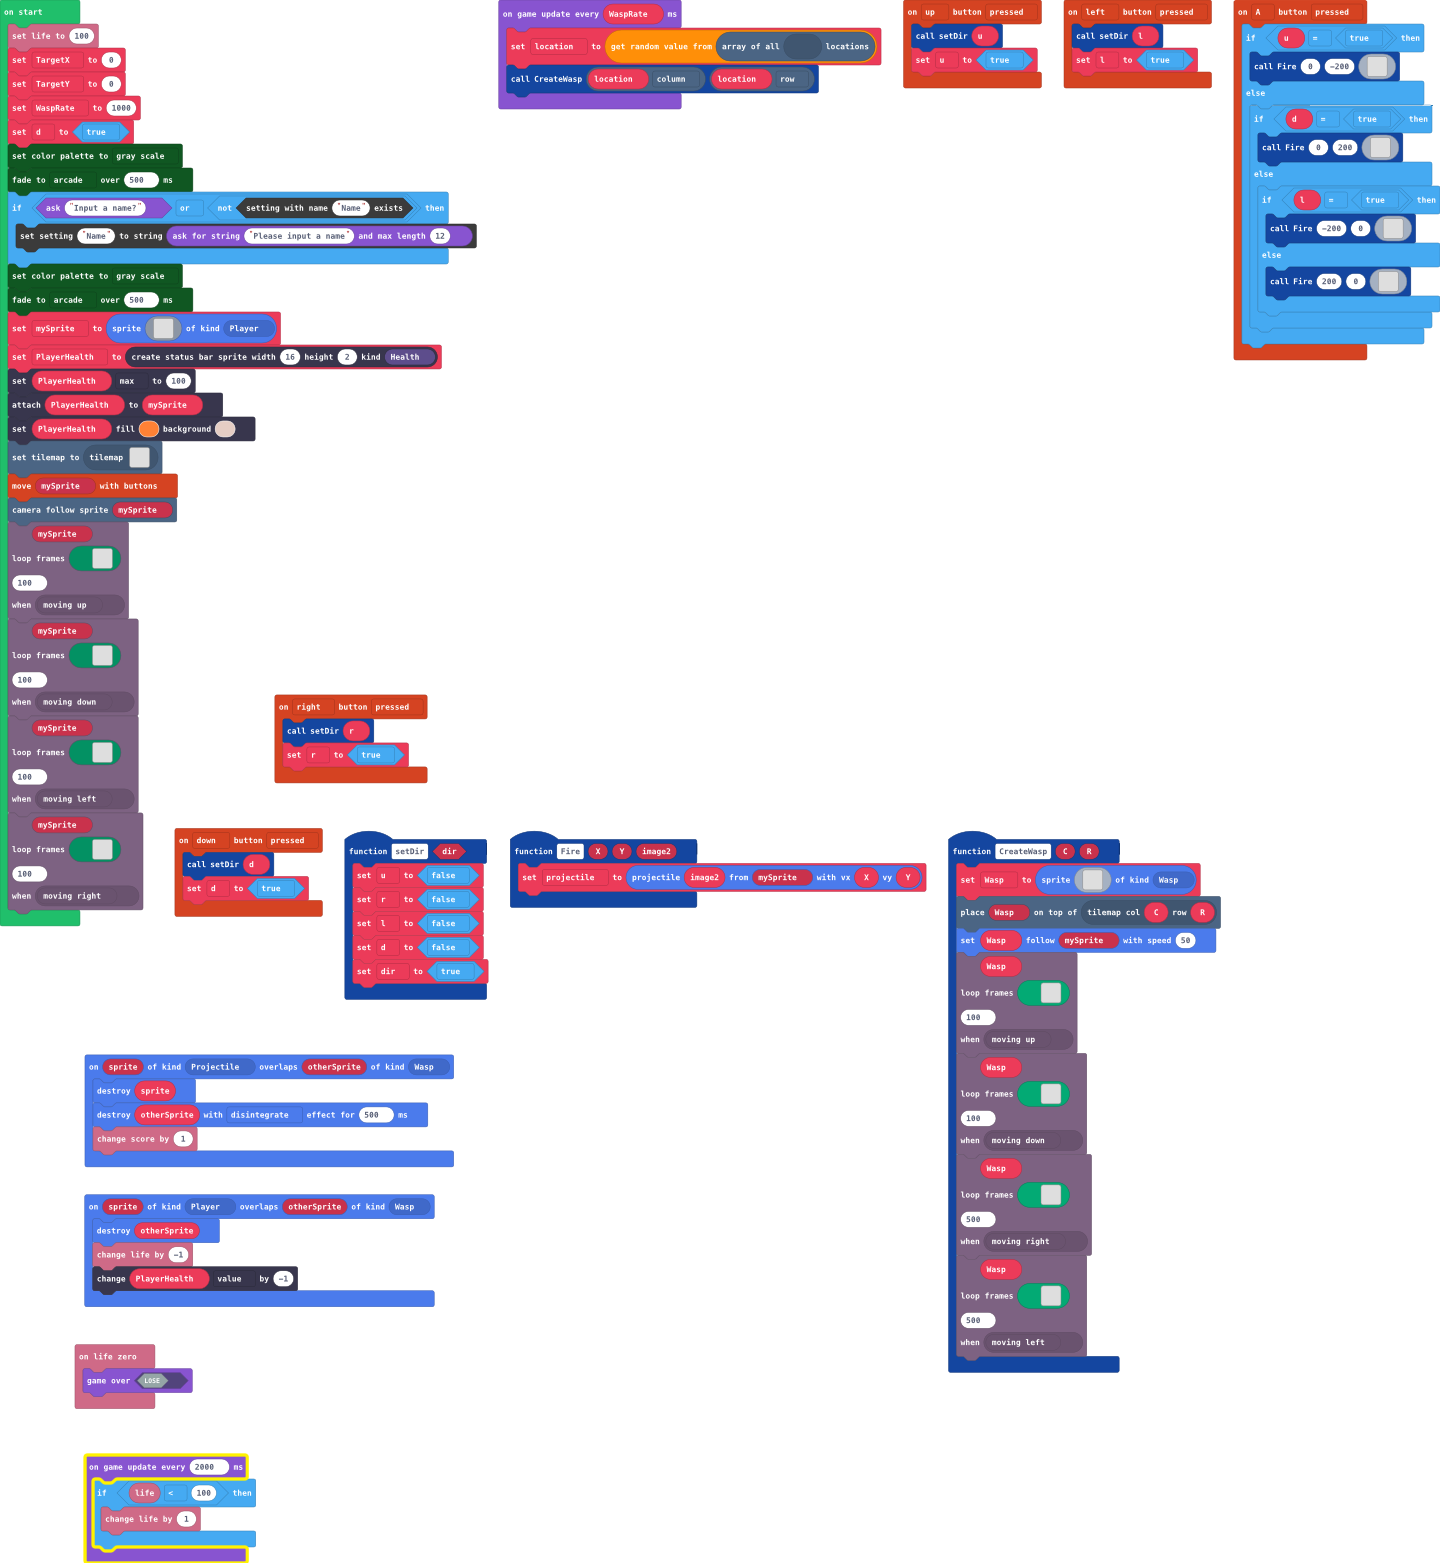
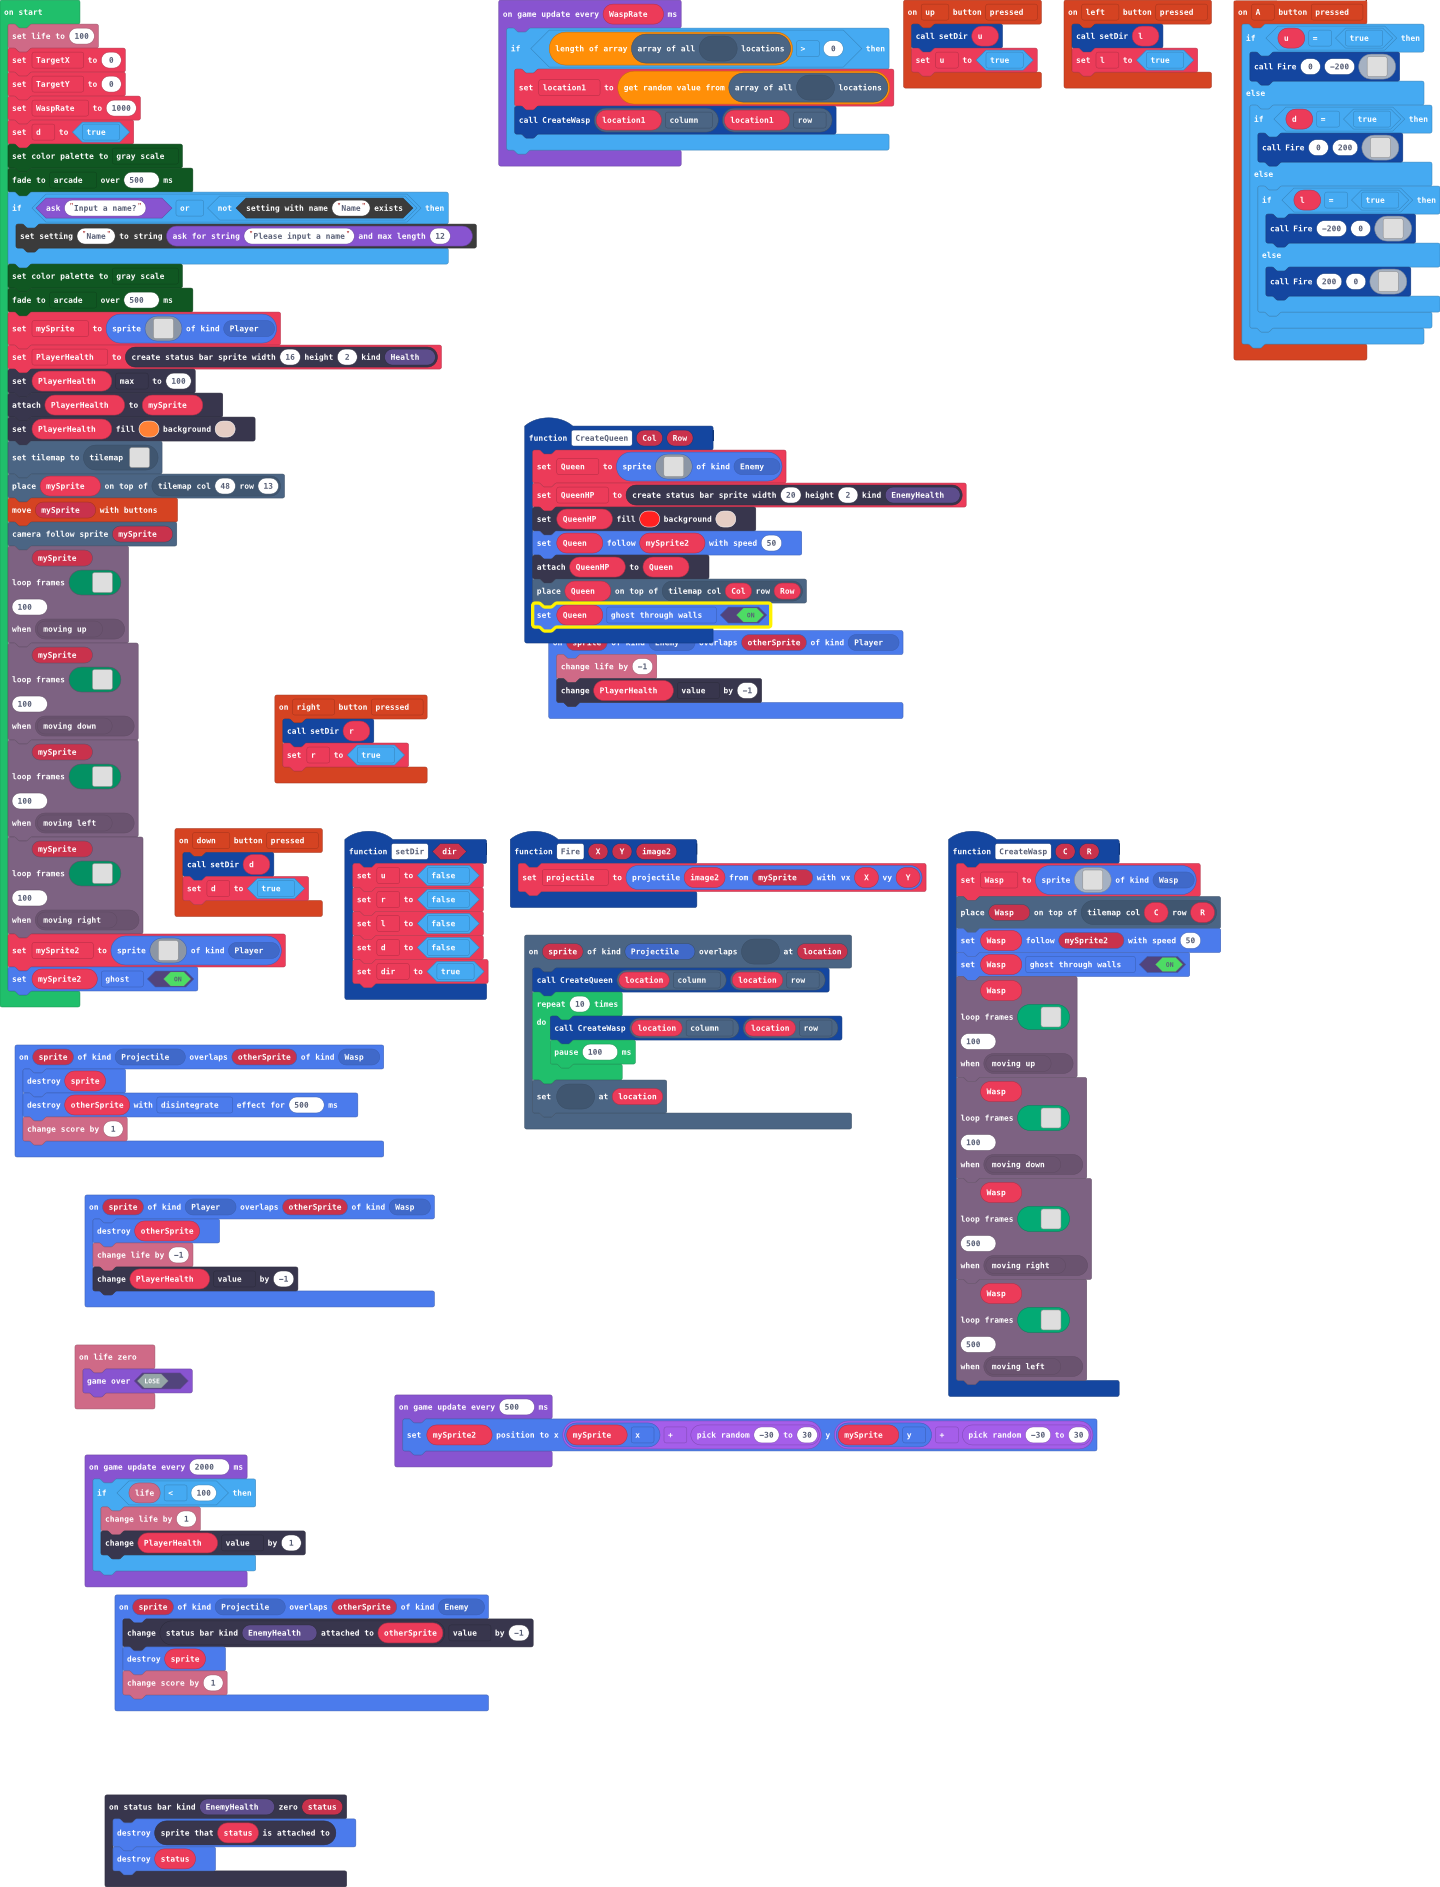
Update main.blocks, main.ts, tilemap.g.jres, tilemap.g.ts

diff --git a/tilemap.g.ts b/tilemap.g.ts
@@ -6,6 +6,12 @@ namespace myTiles {
     export const tile1 = image.ofBuffer(hex``);
     //% fixedInstance jres blockIdentity=images._tile
     export const tile2 = image.ofBuffer(hex``);
+    //% fixedInstance jres blockIdentity=images._tile
+    export const tile3 = image.ofBuffer(hex``);
+    //% fixedInstance jres blockIdentity=images._tile
+    export const tile4 = image.ofBuffer(hex``);
+    //% fixedInstance jres blockIdentity=images._tile
+    export const tile5 = image.ofBuffer(hex``);
 
     helpers._registerFactory("tilemap", function(name: string) {
         switch(helpers.stringTrim(name)) {
@@ -29,58 +35,33 @@ namespace myTiles {
 . . . . . . . . . . . . . . . . 
 `, [myTiles.transparency16], TileScale.Sixteen);
             case "Enter":
-            case "level1":return tiles.createTilemap(hex`3200320001010101010101010101010101010101010101010101010101010101010101010101010101010101010101010101010101010101010101010101010101010101010101010101010101010101010101010101010101010101010101010101010101010101010101010101010101010101010101010101010101010101010101010101010101010101010101010101010101010101010101010101010101010101010101010101010101010101010101010101010101010101010101010101010101010101010101010101010101010101010101010101010101010101010101010101010101010101010101010101010101010101010101010101010101010101010101010101010101010101010101010101010101010101010101010101010101010101010101010101010101010101010101010101010101010101010101010101010101010101010101010101010101010101010101010101010101010101010101010101010101010101010101010101010101010101010101010101010101010101010101010101010101010101010101010101010101010101010101010101010101010101010101010101010101010101010101010101010101010101010101010101010101010101010101010101010101010101010101010101010101010101010101010101010201010101010101010101010101010101010101010101010101010101010101010101010101010101010101010101010101010101010101010101010101010101010101010101010101010101010101010101010101010101010101010101010101010101010101010101010101010101010101010101010101010101010101010101010101010101010101010101010101010101010101010101010101010101010101010101010101010101010101010101010101010101010101010101010101010101010101010101010101010101010101010101010101010101010101010101010101010101010101010101010101010101010101010101010101010101010101010101010101010101010101010101010101010101010101010101010101010101010101010101010101010101010101010101010101010101010101010101010101010101010101010101010101010101010101010101010101010101010101010101010101010101010101010101010101010101010101010101010101010101010101010101010101010101010101010101010101010101010101010101010101010101010101010101010101010101010101010101010101010101010101010101010101010101010101010101010101010101010101010101010101010101010101010101010101010101010101010101010101010101010101010101010101010101010101010101010101010101010101010101010101010101010101010101010101010101010101010101010101010101010101010101010101010101010101010101010101010101010101010101010101010101010101010101010101010101010101010101010101010101010101010101010101010101010101010101010101010101010101010101010101010101010101010101010101010101010101010101010101010101010101010101010101010101010101010101010101010101010101010101010101010101010101010101010101010101010101010101010101010101010101010101010101010101010101010101010101010101010101010101010101010101010101010101010101010101010101010101020101010101010101010101010101010101010101010101010101010101010101010101010101010101010101010101010101010101010101010101010101010101010101010101010101010101010101010101010101010101010101010101010101010101010101010101010101010101010101010101010101010101010101010101010101010101010101010101010101010101010101010101010101010101010101010101010101010101010101010101010101010101010101010101010101010101010101010101010101010101010101010101010101010101010101010101010101010101010101010101010101010101010101010101010101010101010101010101010101010101010101010101010101010101010101010101010101010101010101010101010101010101010101010101010101010101010101010101010101010101010101010101010101010101010101010101010101010101010101010101010101010101010101010101010101010101010101010101010101010101010101010101010101010101010101010101010101010101010101010101010101010101010101010101010101010101010101010101010101010101010101010101010101010101010101010101010101010101010101010101010101010101010101010101010101010101010101010101010101010101010101010101010101010101010101010101010101010101010101010101010101010101010101010101010101010101010101010101010101010101010101010101010101010101010101010101010101010101010101010101010101010101010101010101010101010101010101010101010101010101010101010101010101010101010101010101010101010101010101010101010101010101010101010101010101010101010101010101010101010101010101010101010101010101010101010101010101010101010101010101010102010101010101010101010101010101010101010101010101010101010101010101010101010101010101010101010101010101010101010101010101010101010101010101010101010101010101010101010101010101010101010101010101010101010101010101010101010101010101010101010101010101010101010101010101010101010101010101010101010101010101010101010101010101010101010101010101010101010101010101010101010101010101010101010101010101010101010101010101010101010101010101010101010101010101010101010101010101010101010101010101010101010101010101010101010101010101010101010101010101010101010101010101010101010101010101010101010101010101010101010101010101010101010101010101010101010101010101010101010101010101010101010101010101010101010101010101010101010101010101010101010101010101010101010101010101010101010101010101010101010101010101010101010101010101010101010101010101010101010101010101010101010101010101010101010101010101010101010101010101010101010101010101010101010101010101010101010101010101010101010101010101`, img`
+            case "level1":return tiles.createTilemap(hex`320019000101010101010101010101010101010101010505050505050505050505050501010101010101010101010101010101010101010101010101010101010101010101010101050505050505050505050505050101010101010101010101010101010101010101010101010101010101010101010101010105050505050505050505050505010101010101010101010101010101010101010101010101010101010101010101010101010505050505050505050505050501010101010101010101010101010101010101010101010101010101010101010101010101050505050505050505050505050101010101010101010101010101010101010101010101010101010101010101010101010105050505050505050505050501010101010101010101010101010101010101010101010101010101010101010101010101010505050505050505050505050101010101010101010101010101010101010101010101010101010101010101010101010101050505050505050505050505010101010101010101010101010101010101010101010101010101010101010101010101010101050505050505050505050501010101010101010101010301010101010101010101010101010101010101010101010101010105050505050505050505050501010101010101010101030101010101010101010101010101010101010101010101010104040404040404040404040404040404010101010101010103010101010101010102010101010101010101010101010101010404040404040404040404040404040401010101010101030101010101010101010101010101010101010101010101010101010505050505050505050505050505010101010101010103010101010101010101010101010101010101010101010101010105050505050505050505050505050501010101010101010301010101010101010101010101010101010101010101010101010505050505050505050505050505050101010101010101010101010101010101010101010101010101010101010101010104040404040404040404040404040404040401010101010101010101010101010101010101010101010101010101010101010404040404040404040404040404040404040101010101010101010101010101010101010101010101010101010101010101010105050505050505050505050505050101010101010101010101010101010101010101010101010101010101010101010101010505050505050505050505050505010101010101010101010101010101010101010101010101010101010101010101010101010505050505050505050505050501010101010101010101010101010101010101010101010101010101010101010101010101050505050505050505050505050501010101010101010101010101010101010101010101010101010101010101010101010105050505050505050505050505050101010101010101010101010101010101010103010101010101010101010101010101010505050505050505050505050505010101010101010101010101010101010101010101010101010101010101010101010101050505050505050505050505050501010101010101010101010101010101010101010101010101010101010101010101010105050505050505050505050505050101010101010101010101010101010101`, img`
+..................2222222222222...................
+..................2222222222222...................
+..................2222222222222...................
+..................2222222222222...................
+..................2222222222222...................
+..................222222222222....................
+..................222222222222....................
+..................222222222222....................
+...................22222222222....................
+...................222222222222...................
 ..................................................
 ..................................................
+..................22222222222222..................
+.................222222222222222..................
+.................222222222222222..................
 ..................................................
 ..................................................
-..................................................
-..................................................
-..................................................
-..................................................
-..................................................
-..................................................
-..................................................
-..................................................
-..................................................
-..................................................
-..................................................
-..................................................
-..................................................
-..................................................
-..................................................
-..................................................
-..................................................
-..................................................
-..................................................
-..................................................
-..................................................
-..................................................
-..................................................
-..................................................
-..................................................
-..................................................
-..................................................
-..................................................
-..................................................
-..................................................
-..................................................
-..................................................
-..................................................
-..................................................
-..................................................
-..................................................
-..................................................
-..................................................
-..................................................
-..................................................
-..................................................
-..................................................
-..................................................
-..................................................
-..................................................
-..................................................
-`, [myTiles.transparency16,sprites.castle.tileDarkGrass1,myTiles.tile2], TileScale.Sixteen);
+..................22222222222222..................
+..................22222222222222..................
+...................2222222222222..................
+...................22222222222222.................
+...................22222222222222.................
+...................22222222222222.................
+...................22222222222222.................
+...................22222222222222.................
+`, [myTiles.transparency16,sprites.castle.tileDarkGrass1,myTiles.tile2,myTiles.tile3,myTiles.tile4,myTiles.tile5], TileScale.Sixteen);
         }
         return null;
     })
@@ -92,6 +73,12 @@ namespace myTiles {
             case "tile1":return tile1;
             case "myTile0":
             case "tile2":return tile2;
+            case "myTile1":
+            case "tile3":return tile3;
+            case "myTile2":
+            case "tile4":return tile4;
+            case "myTile3":
+            case "tile5":return tile5;
         }
         return null;
     })

diff --git a/main.ts b/main.ts
@@ -1,10 +1,41 @@
 namespace SpriteKind {
     export const Wasp = SpriteKind.create()
 }
+function CreateQueen (Col: number, Row: number) {
+    Queen = sprites.create(img`
+        ....ff.........ff...
+        .....f........ff....
+        .....ffffffffff.....
+        ...fffffffffffff....
+        ...fff1ffffff1ff....
+        ....fffffffffff.....
+        ....ffffffffff......
+        .....55555555.......
+        .1111ffffffff111111.
+        11111555555551111111
+        .11111fffffff111111.
+        ......5555555.......
+        ......ffffffff......
+        .......5555555......
+        .......fffffff......
+        ........555555......
+        .........ffffff.....
+        ..........55555.....
+        ............ffff....
+        ................ff..
+        `, SpriteKind.Enemy)
+    QueenHP = statusbars.create(20, 2, StatusBarKind.EnemyHealth)
+    QueenHP.setColor(2, 13)
+    Queen.follow(mySprite2, 50)
+    QueenHP.attachToSprite(Queen)
+    tiles.placeOnTile(Queen, tiles.getTileLocation(Col, Row))
+    Queen.setFlag(SpriteFlag.GhostThroughWalls, true)
+}
 function CreateWasp (C: number, R: number) {
     Wasp = sprites.create(assets.image`Wasp`, SpriteKind.Wasp)
     tiles.placeOnTile(Wasp, tiles.getTileLocation(C, R))
-    Wasp.follow(mySprite, 50)
+    Wasp.follow(mySprite2, 50)
+    Wasp.setFlag(SpriteFlag.GhostThroughWalls, true)
     characterAnimations.loopFrames(
     Wasp,
     assets.animation`Flying up or down`,
@@ -60,9 +91,25 @@ controller.left.onEvent(ControllerButtonEvent.Pressed, function () {
     setDir(l)
     l = true
 })
+statusbars.onZero(StatusBarKind.EnemyHealth, function (status) {
+    sprites.destroy(status.spriteAttachedTo())
+    sprites.destroy(status)
+})
 controller.right.onEvent(ControllerButtonEvent.Pressed, function () {
     setDir(r)
     r = true
+})
+scene.onOverlapTile(SpriteKind.Projectile, assets.tile`myTile0`, function (sprite, location) {
+    CreateQueen(location.column, location.row)
+    for (let index = 0; index < 10; index++) {
+        CreateWasp(location.column, location.row)
+        pause(100)
+    }
+    tiles.setTileAt(location, assets.tile`myTile1`)
+})
+sprites.onOverlap(SpriteKind.Enemy, SpriteKind.Player, function (sprite, otherSprite) {
+    info.changeLifeBy(-1)
+    PlayerHealth.value += -1
 })
 function Fire (X: number, Y: number, image2: Image) {
     projectile = sprites.createProjectileFromSprite(image2, mySprite, X, Y)
@@ -79,18 +126,26 @@ sprites.onOverlap(SpriteKind.Projectile, SpriteKind.Wasp, function (sprite, othe
     sprites.destroy(otherSprite, effects.disintegrate, 500)
     info.changeScoreBy(1)
 })
+sprites.onOverlap(SpriteKind.Projectile, SpriteKind.Enemy, function (sprite, otherSprite) {
+    statusbars.getStatusBarAttachedTo(StatusBarKind.EnemyHealth, otherSprite).value += -1
+    sprites.destroy(sprite)
+    info.changeScoreBy(1)
+})
 sprites.onOverlap(SpriteKind.Player, SpriteKind.Wasp, function (sprite, otherSprite) {
     sprites.destroy(otherSprite)
     info.changeLifeBy(-1)
     PlayerHealth.value += -1
 })
-let location: tiles.Location = null
+let location1: tiles.Location = null
 let projectile: Sprite = null
 let dir = false
 let l = false
 let r = false
 let u = false
 let Wasp: Sprite = null
+let QueenHP: StatusBarSprite = null
+let Queen: Sprite = null
+let mySprite2: Sprite = null
 let PlayerHealth: StatusBarSprite = null
 let mySprite: Sprite = null
 let d = false
@@ -116,6 +171,7 @@ PlayerHealth.max = 100
 PlayerHealth.attachToSprite(mySprite)
 PlayerHealth.setColor(4, 13)
 tiles.setCurrentTilemap(tilemap`Enter`)
+tiles.placeOnTile(mySprite, tiles.getTileLocation(48, 13))
 controller.moveSprite(mySprite)
 scene.cameraFollowSprite(mySprite)
 characterAnimations.loopFrames(
@@ -142,12 +198,37 @@ assets.animation`Right`,
 100,
 characterAnimations.rule(Predicate.MovingRight)
 )
+mySprite2 = sprites.create(img`
+    . . . . . . . . . . . . . . . . 
+    . . . . . . . . . . . . . . . . 
+    . . . . . . . . . . . . . . . . 
+    . . . . . . . . . . . . . . . . 
+    . . . . . . . . . . . . . . . . 
+    . . . . . . . . . . . . . . . . 
+    . . . . . . . . . . . . . . . . 
+    . . . . . . . . . . . . . . . . 
+    . . . . . . . . . . . . . . . . 
+    . . . . . . . . . . . . . . . . 
+    . . . . . . . . . . . . . . . . 
+    . . . . . . . . . . . . . . . . 
+    . . . . . . . . . . . . . . . . 
+    . . . . . . . . . . . . . . . . 
+    . . . . . . . . . . . . . . . . 
+    . . . . . . . . . . . . . . . . 
+    `, SpriteKind.Player)
+mySprite2.setFlag(SpriteFlag.Ghost, true)
 game.onUpdateInterval(WaspRate, function () {
-    location = tiles.getTilesByType(assets.tile`myTile0`)._pickRandom()
-    CreateWasp(location.column, location.row)
+    if (tiles.getTilesByType(assets.tile`myTile0`).length > 0) {
+        location1 = tiles.getTilesByType(assets.tile`myTile0`)._pickRandom()
+        CreateWasp(location1.column, location1.row)
+    }
 })
 game.onUpdateInterval(2000, function () {
     if (info.life() < 100) {
         info.changeLifeBy(1)
+        PlayerHealth.value += 1
     }
+})
+game.onUpdateInterval(500, function () {
+    mySprite2.setPosition(mySprite.x + randint(-30, 30), mySprite.y + randint(-30, 30))
 })
